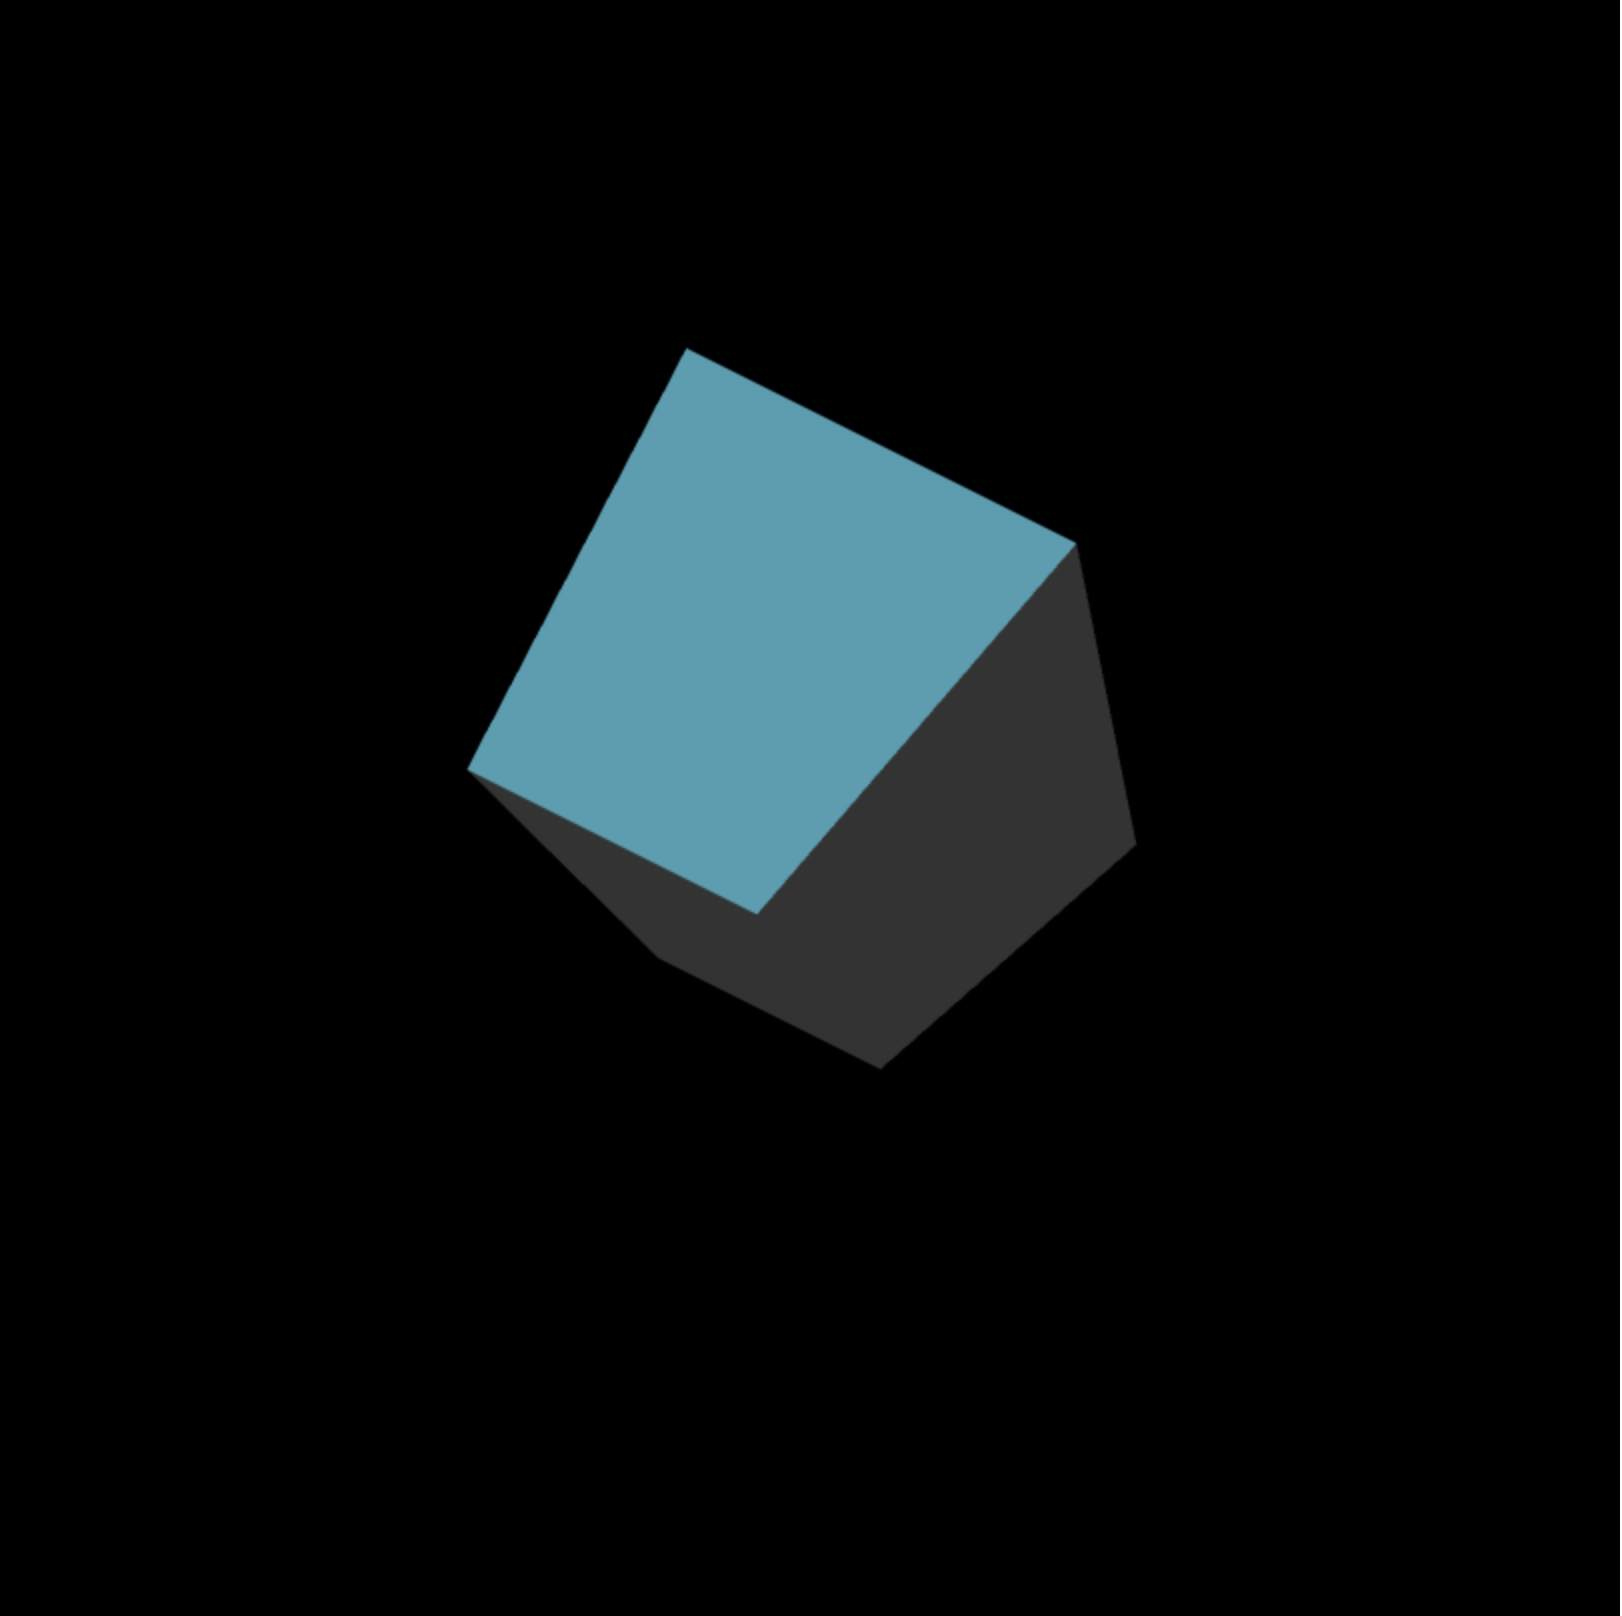
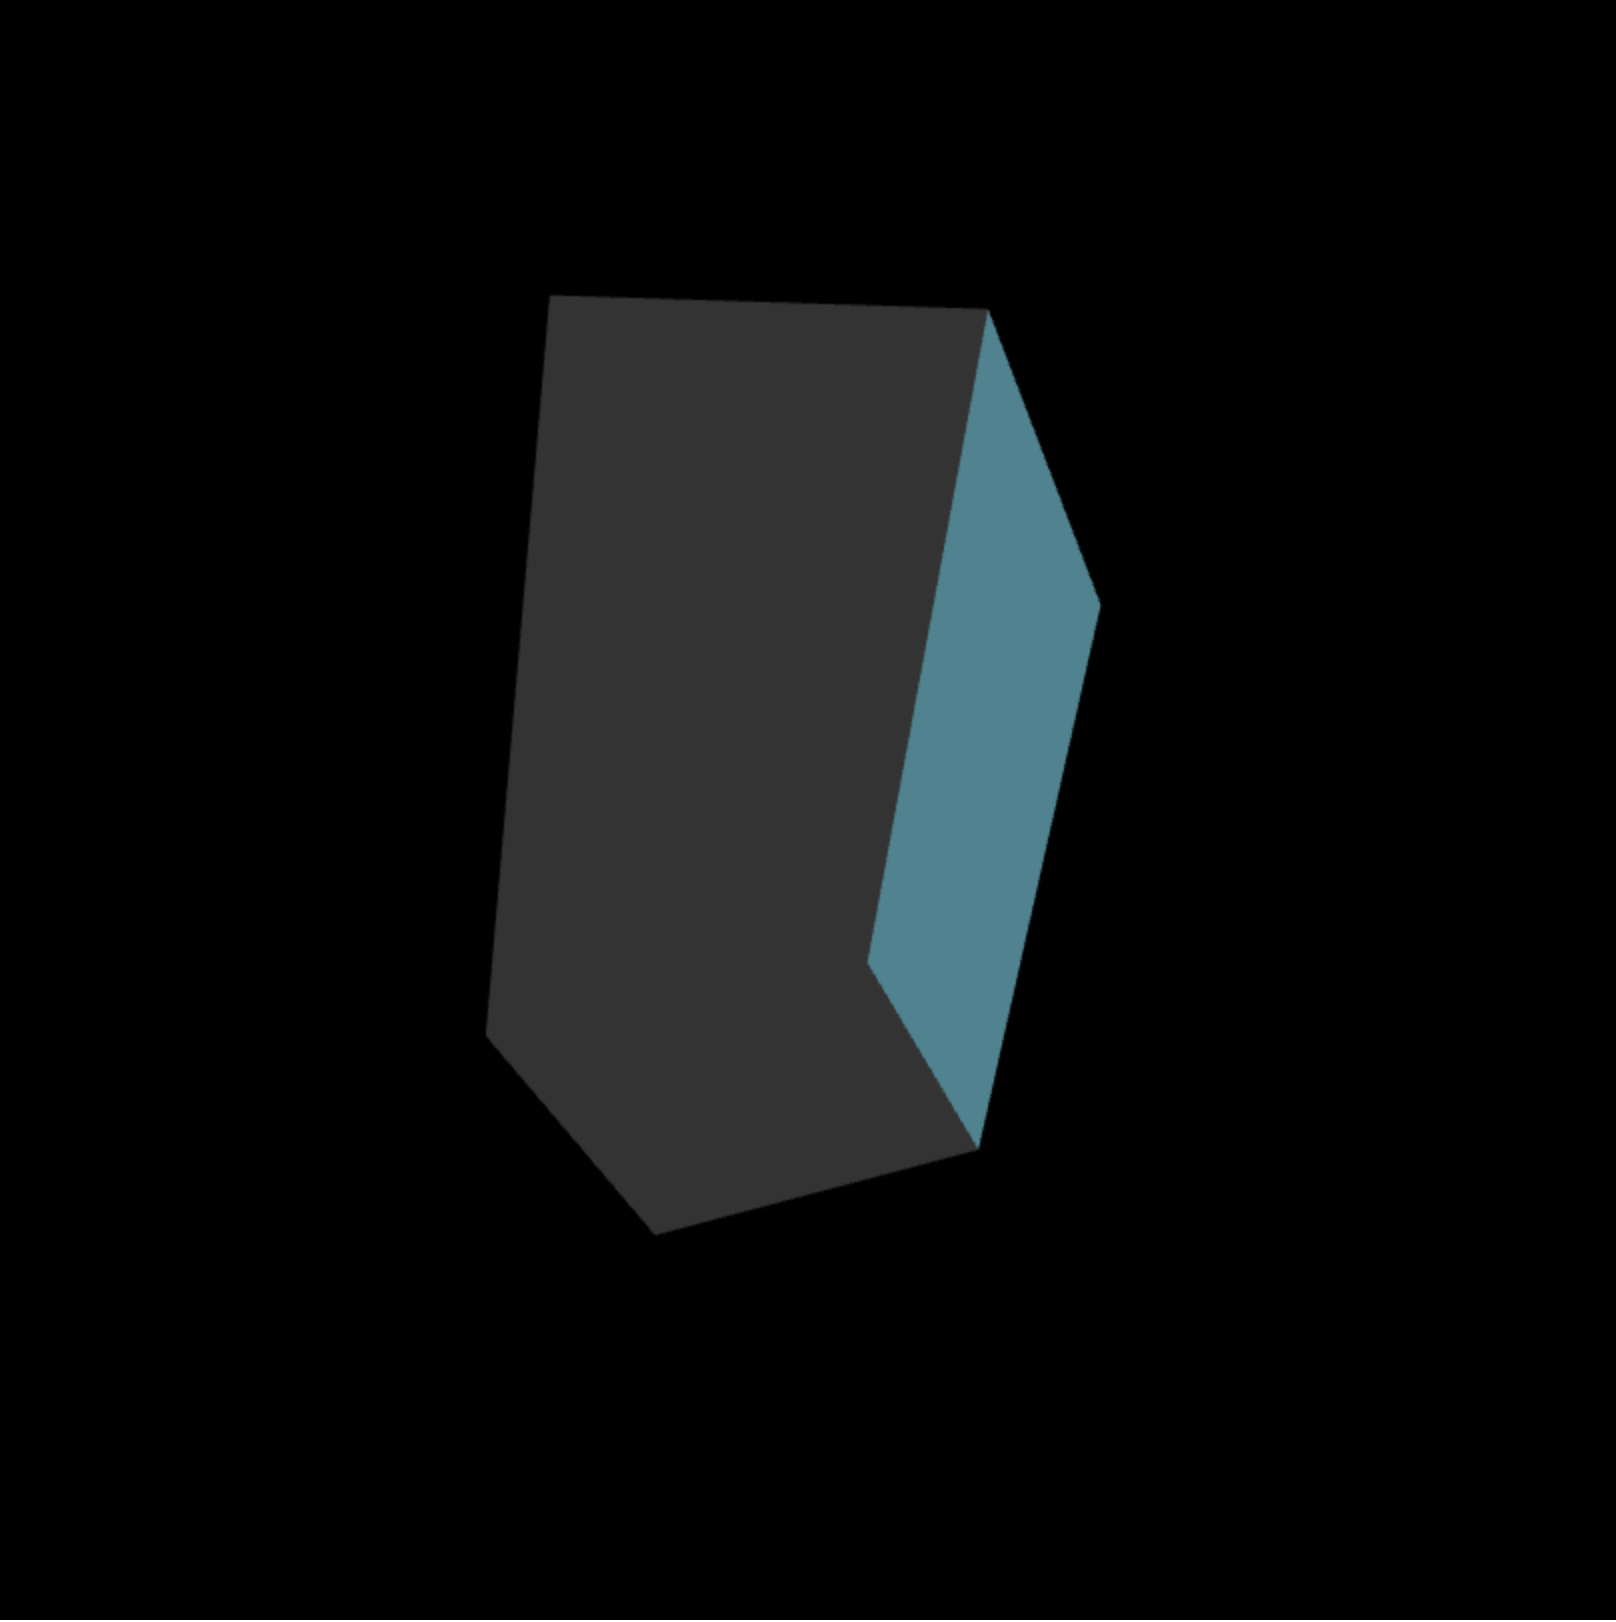
commit

Changed region(s): [[0.2785, 0.1547, 0.7116, 0.7735], [0.0, 0.0, 1.0, 1.0]]

diff --git a/utils.js b/utils.js
@@ -170,11 +170,10 @@ function getModelViewMatrix() {
     const angleZ = 60 * (Math.PI / 180); // 60 degrees to radians
 
 
-    let transformationMatrix = createScaleMatrix(0.5, 0.5, 1)
-    transformationMatrix = multiplyMatrices(createRotationMatrix_X(angleX), transformationMatrix)
-    transformationMatrix = multiplyMatrices(createRotationMatrix_Y(angleY), transformationMatrix)
-    transformationMatrix = multiplyMatrices(createRotationMatrix_Z(angleZ), transformationMatrix)
-    transformationMatrix = multiplyMatrices(createTranslationMatrix(0.3, -0.25, 0), transformationMatrix)
+    let transformationMatrix = multiplyMatrices(createScaleMatrix(0.5, 0.5, 1), createRotationMatrix_X(angleX))
+    transformationMatrix = multiplyMatrices(transformationMatrix, createRotationMatrix_Y(angleY))
+    transformationMatrix = multiplyMatrices(transformationMatrix, createRotationMatrix_Z(angleZ))
+    transformationMatrix = multiplyMatrices(transformationMatrix, createTranslationMatrix(0.3, -0.25, 0))
 
     console.log(transformationMatrix)
     return getTransposeMatrix(transformationMatrix);
@@ -193,17 +192,17 @@ function getPeriodicMovement(startTime) {
     // to get a smooth animation
     const targetMatrix = new Float32Array([
         0.1767766922712326,
-        -0.2866116404032102,
-        0.7391989012326494,
-        0.3,
-        0.3061862071122423,
-        0.3695994506163247,
-        0.28033005777672404,
-        -0.25,
-        -0.3535533845424652,
-        0.1767766922712326,
+        -0.3061862071122423,
+        0.3535533845424652,
+        0.12957956156677275,
+        0.4633883326744428,
+        0.0634132435040824,
+        -0.1767766922712326,
+        0.12316319445033164,
+        0.1268264870081648,
+        0.780330057776724,
         0.6123724142244846,
-        0,
+        -0.15703456682984201,
         0,
         0,
         0,
